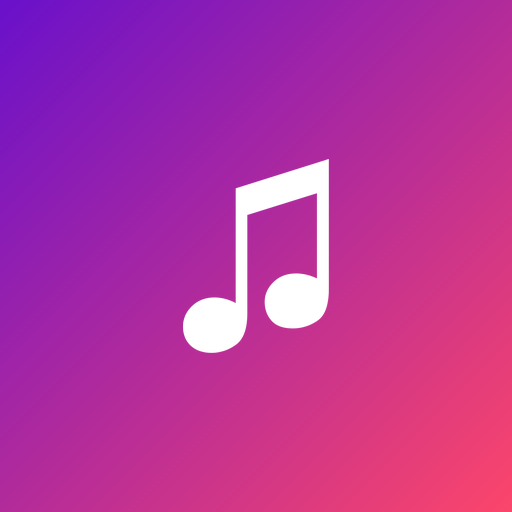
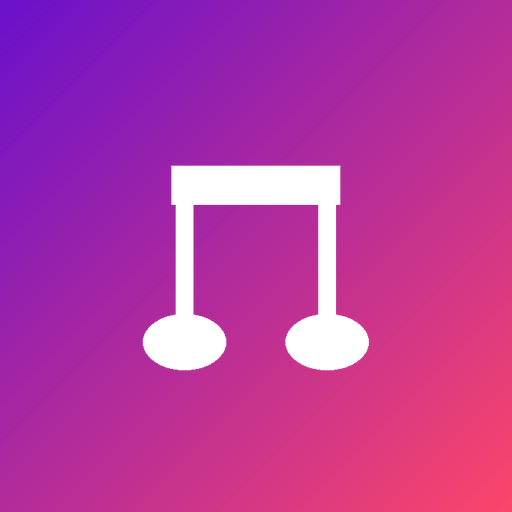
图标改为手绘对称双音符：两根符干严格对称于中心线（偏差0px），间距拉开至39%宽，整体ink居中

Changed region(s): [[0.2812, 0.3125, 0.7188, 0.75]]

diff --git a/gen_icons.py b/gen_icons.py
@@ -1,11 +1,11 @@
 #!/usr/bin/env python3
-"""生成 PWA/APP 图标：紫粉渐变背景 + 白色双音符 ♫（按字形精确居中、左右对称）"""
-from PIL import Image, ImageDraw, ImageFont
+"""生成 PWA/APP 图标：紫粉渐变背景 + 手绘对称双音符 ♫
+设计要点：两根符干（竖线）严格对称于图标垂直中心线，音符头挂在符干正下方，
+整体 ink 范围也严格居中，左右留白均衡。"""
+from PIL import Image, ImageDraw
 import os
 
 BASE = os.path.dirname(os.path.abspath(__file__))
-FONT_PATH = '/System/Library/Fonts/STHeiti Medium.ttc'
-NOTE = '\u266B'  # ♫ 双八分音符
 
 def gradient_bg(size):
     """对角渐变背景（紫 -> 粉），逐行插值"""
@@ -25,35 +25,46 @@ def gradient_bg(size):
                     px[x + dx, y] = (r, g, b)
     return img
 
-def render_note(font_size):
-    """高分辨率渲染音符，裁剪出实际字形（ink bbox）"""
-    font = ImageFont.truetype(FONT_PATH, font_size)
-    tmp = Image.new('RGBA', (font_size * 2, font_size * 2), (0, 0, 0, 0))
-    d = ImageDraw.Draw(tmp)
-    d.text((font_size, font_size), NOTE, font=font, fill=(255, 255, 255, 255), anchor='mm')
-    bbox = tmp.getbbox()
-    if not bbox:
-        raise RuntimeError('音符字形渲染失败')
-    return tmp.crop(bbox)
+def draw_symmetric_note(img, size, note_h_ratio=0.56):
+    """手绘对称双音符（基准 512 设计，按尺寸等比缩放）
 
-def paste_note_centered(img, size, note_h_ratio):
-    """音符按目标高度等比缩放后，以字形中心精确对齐图标中心（左右对称）"""
-    # 用 4x 目标高度渲染，缩小后边缘更平滑
-    render_h = int(size * note_h_ratio) * 4
-    note = render_note(max(render_h, 200))
-    target_h = int(size * note_h_ratio)
-    target_w = max(1, int(note.width * target_h / note.height))
-    note = note.resize((target_w, target_h), Image.LANCZOS)
-    # 字形中心 = 图标中心
-    x = (size - target_w) // 2
-    y = (size - target_h) // 2
-    img.alpha_composite(note, (x, y))
+    结构（以中心 c 对称）：
+    - 两根符干：中心分别在 c-d 与 c+d（严格对称），从顶部贯穿到头部
+    - 两个音符头：椭圆挂在符干正下方（头中心 = 干中心，对称）
+    - 横梁：水平连接两干顶部
+    整体 ink bbox 关于 c 中心完全对称。
+    """
+    k = size / 512.0
+    c = size / 2
+    white = (255, 255, 255, 255)
+    d = 100 * k          # 符干距中心线半距（两干中心距 200*k）
+    stem_w = 24 * k      # 符干宽
+    head_w = 116 * k     # 音符头宽
+    head_h = 78 * k      # 音符头高
+    y_top = 130 * k      # 梁/干顶部
+    head_cy = 377 * k    # 音符头中心 y
+    beam_h = 54 * k      # 横梁高
+    stem_bottom = 392 * k  # 符干底部（插入头内）
+
+    draw = ImageDraw.Draw(img)
+    for side in (-1, 1):
+        x_center = c + side * d
+        # 音符头（椭圆，中心 = 干中心）
+        draw.ellipse([x_center - head_w/2, head_cy - head_h/2,
+                      x_center + head_w/2, head_cy + head_h/2], fill=white)
+        # 符干（矩形，中心对称于 x_center）
+        draw.rectangle([x_center - stem_w/2, y_top,
+                        x_center + stem_w/2, stem_bottom], fill=white)
+    # 横梁：连接两干顶部（水平，覆盖两干并外延到干外缘）
+    beam_left = c - d - stem_w/2 - 6 * k
+    beam_right = c + d + stem_w/2 + 6 * k
+    draw.rectangle([beam_left, y_top, beam_right, y_top + beam_h], fill=white)
     return img
 
-def make_icon(size, note_h_ratio=0.52):
-    """渐变背景 + 居中白色音符（高度占 52%，留呼吸空间）+ 圆角"""
+def make_icon(size, note_h_ratio=0.56):
+    """渐变背景 + 对称双音符 + 圆角"""
     img = gradient_bg(size).convert('RGBA')
-    paste_note_centered(img, size, note_h_ratio)
+    draw_symmetric_note(img, size, note_h_ratio)
     # 圆角蒙版
     mask = Image.new('L', (size, size), 0)
     mdraw = ImageDraw.Draw(mask)
@@ -63,10 +74,18 @@ def make_icon(size, note_h_ratio=0.52):
     final.paste(img, (0, 0), mask)
     return final
 
-def make_maskable(size, note_h_ratio=0.38):
-    """maskable 图标：全幅渐变背景 + 音符高 38%（留足 safe area）"""
+def make_maskable(size):
+    """maskable 图标：全幅渐变背景 + 音符缩到 40% 居中（留足 safe area）"""
     bg = gradient_bg(size).convert('RGBA')
-    paste_note_centered(bg, size, note_h_ratio)
+    # 先在大画布绘制再等比缩小贴回，保证小尺寸下比例一致
+    big = Image.new('RGBA', (size, size), (0, 0, 0, 0))
+    draw_symmetric_note(big, size, 0.56)
+    # 缩放到 40% 高度（0.40/0.56 ≈ 0.714 倍）
+    factor = 0.40 / 0.56
+    new_w = int(size * factor)
+    small = big.resize((new_w, new_w), Image.LANCZOS)
+    # 只贴音符区域（big 大部分透明，resize 后整体贴上即可）
+    bg.alpha_composite(small, ((size - new_w)//2, (size - new_w)//2))
     return bg
 
 sizes = {
